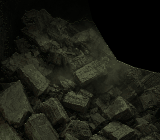
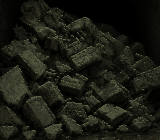
Art: painted rubble from smoke-free source v2 (art/src/rubble_src_v2.jpg), crop (288,51,1000,675) between painted walls, haze fill off, local-contrast outline + lit edges; ~0.93 wall brightness

diff --git a/scripts/build_rubble_from_source.py b/scripts/build_rubble_from_source.py
@@ -7,16 +7,17 @@ import os,sys
 os.chdir(os.path.join(os.path.dirname(os.path.abspath(__file__)),'..'))
 from PIL import Image
 import numpy as np
-SRC='/workspace/sunken-keep/art/src/rubble_src.jpg'
+SRC='/workspace/sunken-keep/art/src/rubble_src_v2.jpg'   # v2: same scene, no smoke
 D='public/art/dungeon_v2/'
 SIZES={'near':(160,140),'mid':(120,100),'far':(80,70)}
 src=Image.open(SRC).convert('RGB')
 if len(sys.argv)==5: CROP=tuple(map(int,sys.argv[1:]))
-else: CROP=(300,50,900,575)   # 1280x720 source: lantern (x~155-205) and painted side walls cropped out, heap fills, dark corridor above right
+else: CROP=(288,51,1000,675)   # 1024-view (230,41,800,540) x1.25: between the painted side walls, heap base on the bottom row   # 1280x720 source: lantern (x~155-205) and painted side walls cropped out, heap fills, dark corridor above right
 # 1) baked-in haze at the top right -> dark corridor (polygon above the heap's right flank, source coords)
 from PIL import ImageDraw
 HAZE=[(630,50),(1280,50),(1280,370),(880,320),(800,300),(740,275),(690,200),(645,120)]
-ImageDraw.Draw(src).polygon(HAZE,fill=(0,0,0))
+HAZE_FILL=False   # v2 source has no smoke
+if HAZE_FILL: ImageDraw.Draw(src).polygon(HAZE,fill=(0,0,0))
 # 2) crop: y1=575 / x1=900 trims the painted wet floor so the heap base sits on the bottom row
 crop=src.crop(CROP)
 for dist,(w,h) in SIZES.items():
@@ -33,14 +34,15 @@ for dist,(w,h) in SIZES.items():
     DARKT=RAMP[min(len(RAMP)-1,step)].sum()   # 'darkness' = the lowest eighth of the ramp
     def q(img):
         f=img.reshape(-1,1,3); i=((f-RAMP[None])**2).sum(2).argmin(1); o=RAMP[i].reshape(img.shape)
-        # 3) sharpen: 1px darker outline where stone meets darkness, lit top edges -> brighter shade
-        L=o.sum(2); dark=L<=DARKT; res=o.copy()
+        # 3) sharpen by local contrast: darker outline where a neighbour is much darker,
+        #    brighter lit edge where the pixel above is much darker
+        L=o.sum(2); res=o.copy(); T=max(30,1.0*L.mean())   # high enough that only block edges, not surface texture, trigger
         for yy in range(h):
             for xx in range(w):
-                if dark[yy,xx]: continue
-                nb=[(yy+dy,xx+dx) for dy,dx in ((-1,0),(1,0),(0,-1),(0,1)) if 0<=yy+dy<h and 0<=xx+dx<w]
-                if yy>0 and dark[yy-1,xx]: res[yy,xx]=RAMP[min(len(RAMP)-1,RI[tuple(o[yy,xx])]+2*step)]
-                elif any(dark[a,b] for a,b in nb): res[yy,xx]=RAMP[max(0,RI[tuple(o[yy,xx])]-step)]
+                i=RI[tuple(o[yy,xx])]
+                if yy>0 and L[yy,xx]-L[yy-1,xx]>T: res[yy,xx]=RAMP[min(len(RAMP)-1,i+2*step)]; continue
+                nb=[L[yy+dy,xx+dx] for dy,dx in ((1,0),(0,-1),(0,1)) if 0<=yy+dy<h and 0<=xx+dx<w]
+                if nb and L[yy,xx]-min(nb)>T: res[yy,xx]=RAMP[max(0,i-step)]
         return res
     lo,hi=0.2,4.0
     for _ in range(14):
